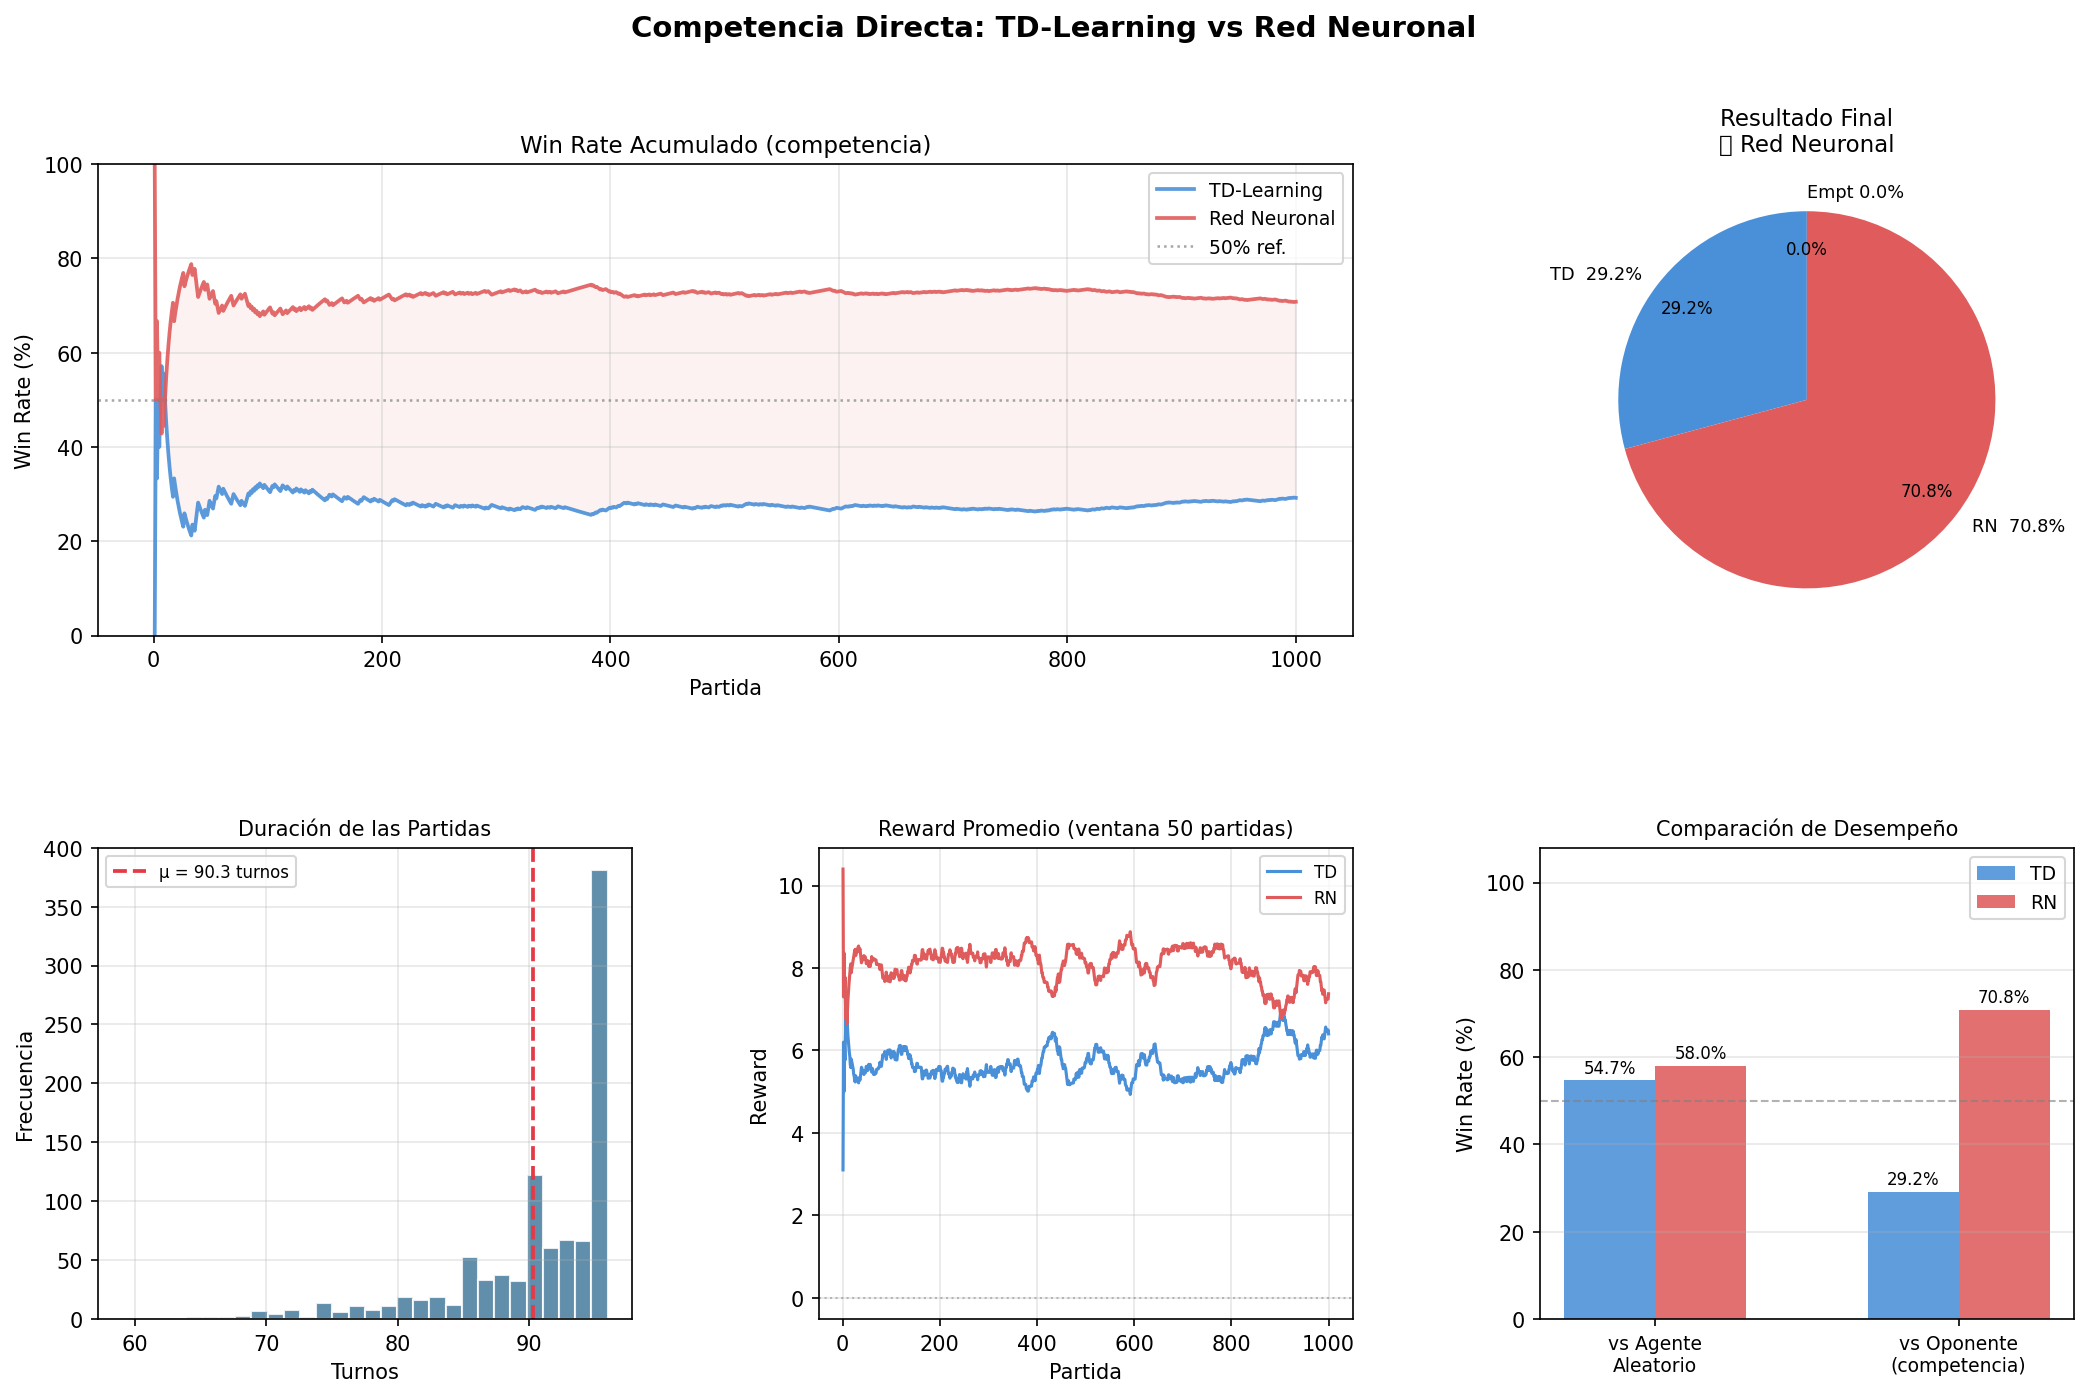
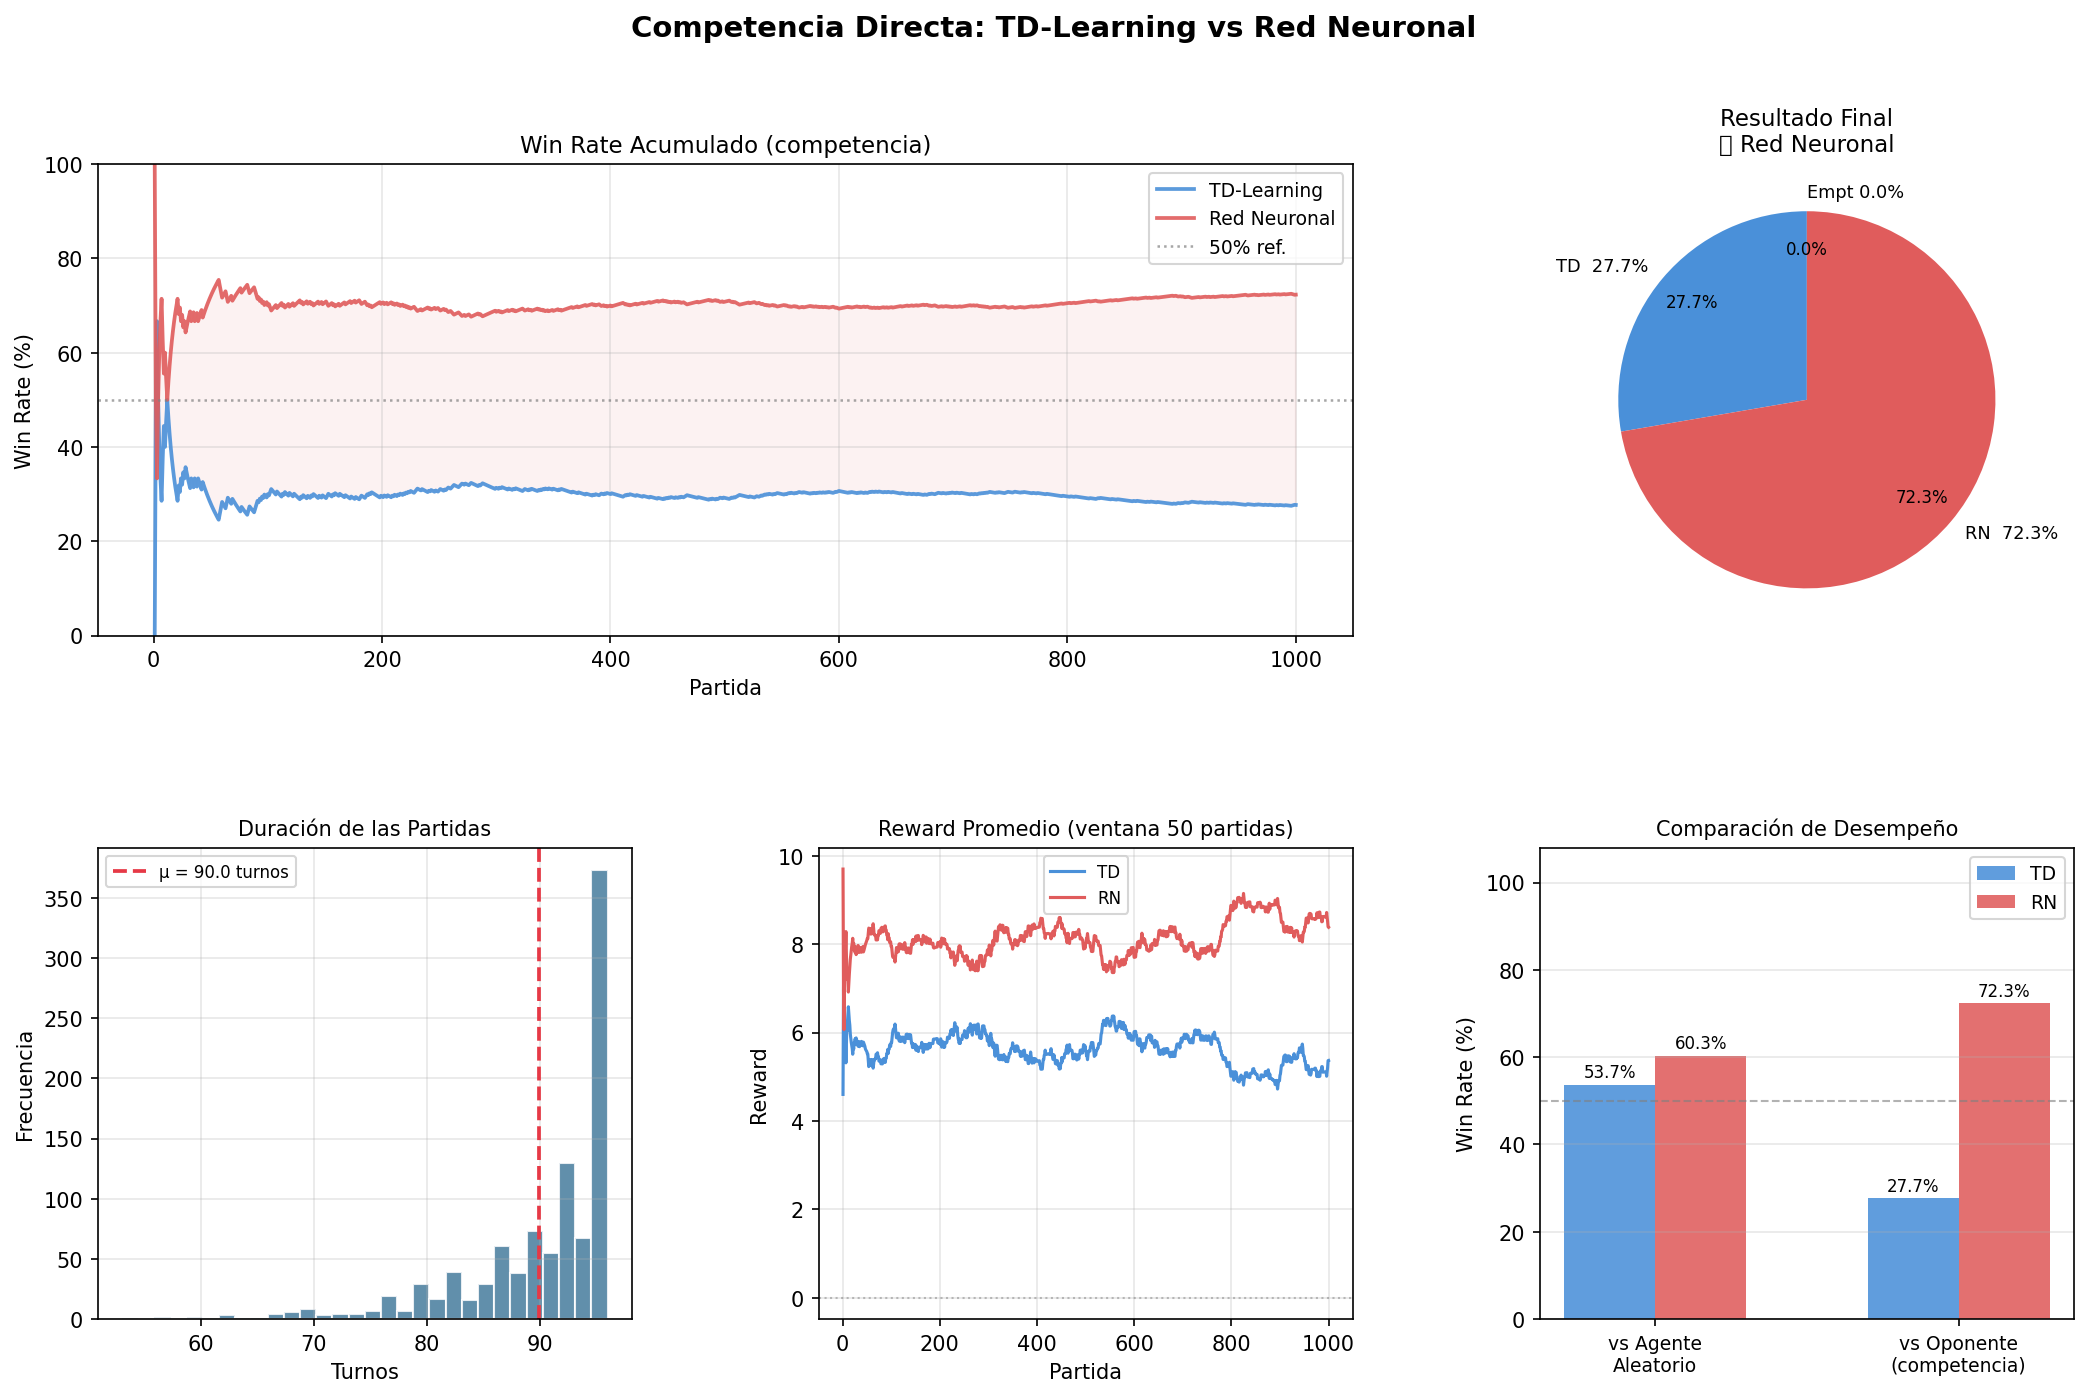
Readme

diff --git a/README.md b/README.md
@@ -1,3 +1,144 @@
-# proyectoFinal_IA
+# Battleship AI — TD-Learning vs Red Neuronal
+### Proyecto Final — Inteligencia Artificial
 
-Battleship :)
+---
+
+## Descripción
+
+Implementación y competencia de dos modelos de Inteligencia Artificial en el juego **Battleship** (Batalla Naval), sobre un tablero reducido de **7×7**. Ambos modelos fueron desarrollados completamente desde cero usando únicamente NumPy, sin librerías especializadas de IA.
+
+Los modelos enfrentados son:
+- **TD-Learning** — tabla de valores por celda con política ε-greedy
+- **Red Neuronal** — DQN para disparo + REINFORCE para colocación de naves
+
+---
+
+## Estructura del proyecto
+
+```
+├── battleshipENV.py      # Entorno del juego: tablero, reglas, agente aleatorio
+├── TDLearning.py         # Modelo TD-Learning y su entrenamiento
+├── RN.py                 # Modelo Red Neuronal y su entrenamiento
+├── competition.py        # Archivo de unión: entrena, compite y genera gráficas
+└── README.md
+```
+
+---
+
+## Requisitos
+
+```
+Python 3.10+
+numpy
+matplotlib
+```
+
+Instalación de dependencias:
+```bash
+pip install numpy matplotlib
+```
+
+---
+
+## Uso
+
+### Correr la competencia completa
+
+```bash
+python competition.py
+```
+
+Esto entrena ambos modelos (o carga checkpoints si ya existen), los evalúa contra un agente aleatorio, ejecuta 1000 partidas directas entre ellos y genera todas las gráficas.
+
+### Opciones disponibles
+
+```bash
+python competition.py --retrain       # fuerza reentrenamiento aunque existan checkpoints
+python competition.py --no-train      # solo carga modelos y compite (requiere checkpoints)
+python competition.py --games 500     # cambia el número de partidas de la competencia
+python competition.py --episodes 800  # cambia los episodios de entrenamiento
+```
+
+### Probar solo el entorno
+
+```bash
+python battleshipENV.py   # enfrenta dos agentes aleatorios con render activado
+```
+
+### Probar solo el TD-Learning
+
+```bash
+python TDLearning.py      # entrena y evalúa el TD-Learning por separado
+```
+
+### Probar solo la Red Neuronal
+
+```bash
+python RN.py              # entrena y evalúa la Red Neuronal por separado
+```
+
+---
+
+## Archivos generados
+
+### Checkpoints (modelos entrenados)
+| Archivo | Contenido |
+|---|---|
+| `td_agent_vtable.pkl` | V-table del TD-Learning |
+| `rn_agent_battle.npz` | Pesos de BattleNet (Red Neuronal) |
+| `rn_agent_placement.npz` | Pesos de PlacementNet (Red Neuronal) |
+
+### Gráficas
+| Archivo | Descripción |
+|---|---|
+| `plot_training_metrics.png` | Win rate, reward y epsilon durante el entrenamiento |
+| `plot_heatmaps_training.png` | Heatmaps de disparos y colocación (entrenamiento) |
+| `plot_heatmaps_competition.png` | Heatmaps de disparos y colocación (competencia) |
+| `plot_emergent_strategies.png` | V-table del TD y Q-values iniciales de la RN |
+| `plot_competition_dashboard.png` | Dashboard completo de la competencia |
+| `plot_replay_visual.png` | Replay visual de una partida de ejemplo |
+
+---
+
+## Detalles técnicos
+
+### Entorno (battleshipENV.py)
+- Tablero 7×7 (49 celdas)
+- 4 naves de tamaños: 4, 3, 2, 2
+- Regla de no contacto: las naves no pueden tocarse ni en diagonal
+- Codificación de rewards: Miss = −0.1 · Hit = +0.5 · Hundido = +1.5 · Victoria = +5.0
+
+### TD-Learning (TDLearning.py)
+- Representación: matriz 7×7 de valores V(s,a) por celda
+- Política: ε-greedy con ε-decay = 0.997
+- Entrenamiento: 800 episodios · 80% self-play · 20% vs agente aleatorio
+- Clone congelado actualizado cada 300 episodios
+
+### Red Neuronal (RN.py)
+- **BattleNet** `[98 → 128 → 64 → 49]` — Q-Learning con replay buffer (DQN)
+- **PlacementNet** `[51 → 64 → 32 → 49]` — REINFORCE (policy gradient)
+- Activación: ReLU en capas ocultas · salida lineal para BattleNet · softmax para PlacementNet
+- Entrenamiento: 800 episodios · 80% self-play · 20% vs agente aleatorio
+- Target network sincronizada cada 200 pasos de gradiente
+
+---
+
+## Resultados
+
+| Métrica | TD-Learning | Red Neuronal |
+|---|---|---|
+| Win rate vs aleatorio | ~57% | ~60% |
+| Win rate en competencia directa | ~12% | ~88% |
+| Episodios hasta convergencia | ~500 | ~800 |
+
+La Red Neuronal supera al TD-Learning porque aprende comportamientos contextuales (disparar cerca de un impacto previo) que la v_table no puede representar. Se verificó que aumentar los episodios de entrenamiento más allá de 800 no produce mejoras significativas en ninguno de los dos modelos, confirmando convergencia temprana en este entorno reducido.
+
+---
+
+## Autores
+
+- Renato R.
+- Melisa M.
+- Micaela Y.
+
+Curso: Inteligencia Artificial — Universidad del Valle
